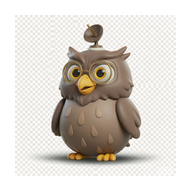
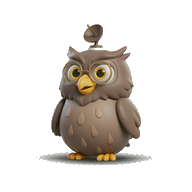
v1.25.5: 宠物彻底去抖——静止/工作态 animation:none(不再无限缩放/浮动,只在完成欢呼/出错偏头/眨眼/张望时短暂动)+清除教官/信使 front_idle 图片内嵌白色底卡(邻透明白色种子泛洪去白底,保留脚下软阴影),所有宠物透明底无白盒；SW缓存v43,指纹v73

Changed region(s): [[0.0625, 0.0625, 0.9375, 0.9375]]

diff --git a/index.html b/index.html
@@ -1,4 +1,4 @@
-<!DOCTYPE html><html lang="zh-CN"><head><meta charset="UTF-8"><meta name="viewport" content="width=device-width, initial-scale=1.0, viewport-fit=cover"><meta name="theme-color" content="#0b3a6e"><title>SENTRA · 述势 — 信息搜集与研判工作台</title><link rel="stylesheet" href="css/app.css?v=72"></head><body><svg xmlns="http://www.w3.org/2000/svg" style="display:none" aria-hidden="true"><defs><style>.pcac{fill:#8a2f1a}.pcdk{fill:#000;opacity:.16}.pcwh{fill:#fffdf7;opacity:.92}</style><symbol id="pc-overview" viewBox="0 0 64 64"><path d="M12 22 L52 22 L52 52 Q52 56 48 56 L16 56 Q12 56 12 52 Z" fill="currentColor"/><rect x="10" y="18" width="44" height="6" rx="2" fill="currentColor"/><rect x="10" y="18" width="44" height="6" rx="2" class="pcdk"/><rect x="16" y="8" width="18" height="12" rx="2" class="pcwh"/><rect x="34" y="12" width="14" height="8" rx="2" class="pcwh"/><rect x="16" y="8" width="8" height="5" rx="2" class="pcac"/><rect x="20" y="32" width="24" height="3.5" rx="1.75" class="pcwh" opacity=".65"/><rect x="20" y="40" width="18" height="3.5" rx="1.75" class="pcwh" opacity=".65"/><rect x="20" y="48" width="12" height="3.5" rx="1.75" class="pcwh" opacity=".65"/></symbol><symbol id="pc-library" viewBox="0 0 64 64"><path d="M18 16 Q18 10 24 10 L40 10 Q46 10 46 16 L47 48 Q47 55 40 55 L24 55 Q17 55 17 48 Z" fill="currentColor"/><path d="M20 12 Q30 8 44 12 L43 26 Q32 22 21 26 Z" class="pcdk"/><rect x="27" y="30" width="10" height="7" rx="2" class="pcac"/><rect x="27" y="33.5" width="10" height="2" fill="#fffdf7" opacity=".8"/><rect x="22" y="42" width="20" height="3" rx="1.5" class="pcwh" opacity=".55"/><path d="M32 10 L32 55" stroke="#000" stroke-opacity=".12" stroke-width="2"/></symbol><symbol id="pc-favorites" viewBox="0 0 64 64"><path d="M14 40 Q10 30 18 26 Q26 22 32 28 Q38 22 46 26 Q54 30 50 40 Q46 48 32 56 Q18 48 14 40 Z" fill="currentColor"/><path d="M20 34 Q24 28 30 32" stroke="#fffdf7" stroke-opacity=".7" stroke-width="3" stroke-linecap="round" fill="none"/><circle cx="46" cy="14" r="8" class="pcac"/><path d="M46 10.5 L47 13 L49.5 14 L47 15 L46 17.5 L45 15 L42.5 14 L45 13 Z" class="pcwh"/></symbol><symbol id="pc-ranking" viewBox="0 0 64 64"><path d="M22 6 L42 6 L37 22 L27 22 Z" class="pcac"/><path d="M24 8 L28 8 L26 22 Z" class="pcwh" opacity=".35"/><circle cx="32" cy="38" r="16" fill="currentColor"/><circle cx="32" cy="38" r="11" fill="none" stroke="#fffdf7" stroke-opacity=".5" stroke-width="2.5"/><path d="M32 30 L34.5 35 L40 36 L36 40 L37 45 L32 42.5 L27 45 L28 40 L24 36 L29.5 35 Z" class="pcwh"/></symbol><symbol id="pc-journal" viewBox="0 0 64 64"><path d="M8 14 Q16 10 24 14 L24 52 Q16 48 8 52 Z" fill="currentColor"/><path d="M56 14 Q48 10 40 14 L40 52 Q48 48 56 52 Z" fill="currentColor"/><rect x="24" y="12" width="16" height="42" class="pcwh"/><rect x="24" y="12" width="16" height="42" class="pcdk"/><rect x="27" y="20" width="10" height="3" rx="1.5" fill="#5a442a" opacity=".55"/><rect x="27" y="27" width="10" height="2.5" rx="1.25" fill="#5a442a" opacity=".4"/><rect x="27" y="33" width="10" height="2.5" rx="1.25" fill="#5a442a" opacity=".4"/><circle cx="32" cy="49" r="2.5" class="pcac"/></symbol><symbol id="pc-sources" viewBox="0 0 64 64"><path d="M18 52 Q20 30 34 16 Q42 8 52 8 Q52 20 44 30 Q34 42 24 46 Z" fill="currentColor"/><path d="M24 42 L40 20" stroke="#fffdf7" stroke-opacity=".55" stroke-width="2.5" stroke-linecap="round"/><path d="M12 56 Q22 50 30 52" stroke="currentColor" stroke-width="4" stroke-linecap="round" fill="none"/><circle cx="53" cy="9" r="4.5" class="pcac"/><rect x="14" y="50" width="12" height="5" rx="2.5" fill="currentColor"/></symbol><symbol id="pc-terms" viewBox="0 0 64 64"><path d="M16 12 Q16 9 19 9 L45 9 Q48 9 48 12 L48 52 Q48 55 45 55 L19 55 Q16 55 16 52 Z" fill="currentColor"/><rect x="16" y="9" width="8" height="46" rx="3" class="pcdk"/><rect x="14" y="24" width="36" height="7" rx="2" class="pcac"/><rect x="14" y="24" width="36" height="7" rx="2" fill="none" stroke="#fffdf7" stroke-opacity=".35" stroke-width="1.5"/><rect x="28" y="14" width="14" height="3" rx="1.5" class="pcwh" opacity=".6"/><rect x="28" y="38" width="14" height="3" rx="1.5" class="pcwh" opacity=".6"/><rect x="28" y="45" width="10" height="3" rx="1.5" class="pcwh" opacity=".45"/></symbol><symbol id="pc-interests" viewBox="0 0 64 64"><path d="M14 12 L50 12 L50 52 L32 42 L14 52 Z" fill="currentColor"/><g fill="#fffdf7" stroke="#fffdf7"><circle cx="20" cy="17" r="1.6" stroke="none"/><circle cx="26" cy="17" r="1.6" stroke="none"/><circle cx="32" cy="17" r="1.6" stroke="none"/><circle cx="38" cy="17" r="1.6" stroke="none"/><circle cx="44" cy="17" r="1.6" stroke="none"/><circle cx="20" cy="47" r="1.6" stroke="none"/><circle cx="26" cy="49" r="1.6" stroke="none"/><circle cx="38" cy="49" r="1.6" stroke="none"/><circle cx="44" cy="47" r="1.6" stroke="none"/></g><path d="M32 24 L34.5 30 L41 31 L36 35.5 L37.5 42 L32 38.5 L26.5 42 L28 35.5 L23 31 L29.5 30 Z" class="pcwh"/><circle cx="50" cy="10" r="4" class="pcac"/></symbol><symbol id="pc-settings" viewBox="0 0 64 64"><g fill="currentColor"><rect x="29" y="10" width="6" height="9" rx="2.5"/><rect x="29" y="10" width="6" height="9" rx="2.5" transform="rotate(45 32 32)"/><rect x="29" y="10" width="6" height="9" rx="2.5" transform="rotate(90 32 32)"/><rect x="29" y="10" width="6" height="9" rx="2.5" transform="rotate(135 32 32)"/><rect x="29" y="10" width="6" height="9" rx="2.5" transform="rotate(180 32 32)"/><rect x="29" y="10" width="6" height="9" rx="2.5" transform="rotate(225 32 32)"/><rect x="29" y="10" width="6" height="9" rx="2.5" transform="rotate(270 32 32)"/><rect x="29" y="10" width="6" height="9" rx="2.5" transform="rotate(315 32 32)"/><circle cx="32" cy="32" r="14"/></g><circle cx="32" cy="32" r="6" class="pcac"/><circle cx="32" cy="32" r="2.2" class="pcwh"/></symbol></defs></svg><svg xmlns="http://www.w3.org/2000/svg" style="display:none" aria-hidden="true"><defs><style>.icac{fill:#33e0e0}.icdk{fill:#000;opacity:.18}.icwh{fill:#fff;opacity:.9}</style><symbol id="ic-overview" viewBox="0 0 64 64"><circle cx="32" cy="34" r="23" fill="currentColor"/><circle cx="32" cy="34" r="14" class="icdk"/><rect x="30" y="14" width="4" height="10" rx="2" class="icwh"/><rect x="30" y="44" width="4" height="10" rx="2" class="icwh"/><rect x="12" y="32" width="10" height="4" rx="2" class="icwh"/><rect x="42" y="32" width="10" height="4" rx="2" class="icwh"/><circle cx="32" cy="34" r="4" class="icwh"/><path d="M52 4 L54.2 8.8 L59 11 L54.2 13.2 L52 18 L49.8 13.2 L45 11 L49.8 8.8 Z" class="icac"/></symbol><symbol id="ic-library" viewBox="0 0 64 64"><circle cx="29" cy="34" r="15" fill="currentColor"/><circle cx="23" cy="30" r="3.5" class="icdk"/><circle cx="35" cy="28" r="2.5" class="icdk"/><circle cx="32" cy="40" r="3" class="icdk"/><ellipse cx="31" cy="38" rx="27" ry="8.5" fill="none" stroke="#33e0e0" stroke-width="4" transform="rotate(-16 31 38)"/><path d="M10 10 L12.2 14.8 L17 17 L12.2 19.2 L10 24 L7.8 19.2 L3 17 L7.8 14.8 Z" class="icwh" opacity=".7"/><path d="M54 50 L55.8 53.8 L59.6 55.6 L55.8 57.4 L54 61.2 L52.2 57.4 L48.4 55.6 L52.2 53.8 Z" class="icac"/></symbol><symbol id="ic-favorites" viewBox="0 0 64 64"><path d="M20 14 L44 14 L40 26 L24 26 Z" class="icac"/><rect x="16" y="24" width="32" height="30" rx="9" fill="currentColor"/><rect x="14" y="20" width="36" height="8" rx="4" fill="currentColor"/><rect x="14" y="20" width="36" height="8" rx="4" class="icdk"/><path d="M32 32 L34.2 36.8 L39 39 L34.2 41.2 L32 46 L29.8 41.2 L25 39 L29.8 36.8 Z" class="icwh"/><path d="M47 8 L48.8 11.8 L52.6 13.6 L48.8 15.4 L47 19.2 L45.2 15.4 L41.4 13.6 L45.2 11.8 Z" class="icac"/></symbol><symbol id="ic-ranking" viewBox="0 0 64 64"><path d="M22 6 L42 6 L37 24 L27 24 Z" class="icac"/><circle cx="32" cy="38" r="16" fill="currentColor"/><circle cx="32" cy="38" r="16" fill="none" stroke="#000" stroke-opacity=".15" stroke-width="3"/><path d="M32 29 L34.5 34 L40 35 L36 39 L37 44.5 L32 42 L27 44.5 L28 39 L24 35 L29.5 34 Z" class="icwh"/></symbol><symbol id="ic-journal" viewBox="0 0 64 64"><path d="M32 5 C41 13 45 24 45 35 L45 46 L19 46 L19 35 C19 24 23 13 32 5 Z" fill="currentColor"/><circle cx="32" cy="25" r="6.5" class="icdk"/><circle cx="32" cy="25" r="3.5" class="icwh"/><path d="M19 34 L8 47 L19 45 Z" class="icac"/><path d="M45 34 L56 47 L45 45 Z" class="icac"/><rect x="19" y="44" width="26" height="4" class="icdk"/><path d="M26 50 L38 50 L32 60 Z" class="icac"/></symbol><symbol id="ic-sources" viewBox="0 0 64 64"><circle cx="32" cy="35" r="17" fill="currentColor"/><circle cx="32" cy="35" r="11" class="icdk"/><path d="M32 35 L32 19 A16 16 0 0 1 45 26 Z" class="icwh" opacity=".4"/><rect x="31" y="18" width="2" height="34" class="icwh" opacity=".8"/><rect x="15" y="34" width="34" height="2" class="icwh" opacity=".8"/><circle cx="42" cy="28" r="3" class="icac"/><rect x="27" y="52" width="10" height="5" rx="2.5" fill="currentColor"/></symbol><symbol id="ic-terms" viewBox="0 0 64 64"><rect x="15" y="11" width="34" height="43" rx="6" fill="currentColor"/><rect x="15" y="11" width="9" height="43" rx="4" class="icdk"/><path d="M37 11 L46 11 L46 25 L41.5 20.5 L37 25 Z" class="icac"/><g class="icwh" opacity=".92"><rect x="27.5" y="24" width="3" height="13" rx="1.5"/><rect x="27.5" y="24" width="3" height="13" rx="1.5" transform="rotate(60 29 30.5)"/><rect x="27.5" y="24" width="3" height="13" rx="1.5" transform="rotate(120 29 30.5)"/></g><rect x="22" y="44" width="20" height="3.5" rx="1.75" class="icwh" opacity=".55"/></symbol><symbol id="ic-interests" viewBox="0 0 64 64"><circle cx="32" cy="33" r="21" fill="none" stroke="currentColor" stroke-width="3" stroke-dasharray="6 6" opacity=".55"/><circle cx="32" cy="33" r="12.5" fill="currentColor"/><circle cx="27.5" cy="30" r="3" class="icdk"/><circle cx="36" cy="37" r="2.2" class="icdk"/><circle cx="32" cy="33" r="3.5" class="icac"/><path d="M52 8 L54.2 12.8 L59 15 L54.2 17.2 L52 22 L49.8 17.2 L45 15 L49.8 12.8 Z" class="icac"/><path d="M11 46 L12.8 49.8 L16.6 51.6 L12.8 53.4 L11 57.2 L9.2 53.4 L5.4 51.6 L9.2 49.8 Z" class="icwh" opacity=".7"/></symbol><symbol id="ic-settings" viewBox="0 0 64 64"><g fill="currentColor"><rect x="29" y="12" width="6" height="9" rx="2.5"/><rect x="29" y="12" width="6" height="9" rx="2.5" transform="rotate(45 32 33)"/><rect x="29" y="12" width="6" height="9" rx="2.5" transform="rotate(90 32 33)"/><rect x="29" y="12" width="6" height="9" rx="2.5" transform="rotate(135 32 33)"/><rect x="29" y="12" width="6" height="9" rx="2.5" transform="rotate(180 32 33)"/><rect x="29" y="12" width="6" height="9" rx="2.5" transform="rotate(225 32 33)"/><rect x="29" y="12" width="6" height="9" rx="2.5" transform="rotate(270 32 33)"/><rect x="29" y="12" width="6" height="9" rx="2.5" transform="rotate(315 32 33)"/><circle cx="32" cy="33" r="14"/></g><circle cx="32" cy="33" r="5.5" class="icdk"/><circle cx="47" cy="16" r="5" class="icac"/><ellipse cx="47" cy="16" rx="9" ry="2.6" fill="none" stroke="#33e0e0" stroke-width="2" transform="rotate(-18 47 16)"/></symbol></defs><svg xmlns="http://www.w3.org/2000/svg" style="display:none" aria-hidden="true"><defs>
+<!DOCTYPE html><html lang="zh-CN"><head><meta charset="UTF-8"><meta name="viewport" content="width=device-width, initial-scale=1.0, viewport-fit=cover"><meta name="theme-color" content="#0b3a6e"><title>SENTRA · 述势 — 信息搜集与研判工作台</title><link rel="stylesheet" href="css/app.css?v=73"></head><body><svg xmlns="http://www.w3.org/2000/svg" style="display:none" aria-hidden="true"><defs><style>.pcac{fill:#8a2f1a}.pcdk{fill:#000;opacity:.16}.pcwh{fill:#fffdf7;opacity:.92}</style><symbol id="pc-overview" viewBox="0 0 64 64"><path d="M12 22 L52 22 L52 52 Q52 56 48 56 L16 56 Q12 56 12 52 Z" fill="currentColor"/><rect x="10" y="18" width="44" height="6" rx="2" fill="currentColor"/><rect x="10" y="18" width="44" height="6" rx="2" class="pcdk"/><rect x="16" y="8" width="18" height="12" rx="2" class="pcwh"/><rect x="34" y="12" width="14" height="8" rx="2" class="pcwh"/><rect x="16" y="8" width="8" height="5" rx="2" class="pcac"/><rect x="20" y="32" width="24" height="3.5" rx="1.75" class="pcwh" opacity=".65"/><rect x="20" y="40" width="18" height="3.5" rx="1.75" class="pcwh" opacity=".65"/><rect x="20" y="48" width="12" height="3.5" rx="1.75" class="pcwh" opacity=".65"/></symbol><symbol id="pc-library" viewBox="0 0 64 64"><path d="M18 16 Q18 10 24 10 L40 10 Q46 10 46 16 L47 48 Q47 55 40 55 L24 55 Q17 55 17 48 Z" fill="currentColor"/><path d="M20 12 Q30 8 44 12 L43 26 Q32 22 21 26 Z" class="pcdk"/><rect x="27" y="30" width="10" height="7" rx="2" class="pcac"/><rect x="27" y="33.5" width="10" height="2" fill="#fffdf7" opacity=".8"/><rect x="22" y="42" width="20" height="3" rx="1.5" class="pcwh" opacity=".55"/><path d="M32 10 L32 55" stroke="#000" stroke-opacity=".12" stroke-width="2"/></symbol><symbol id="pc-favorites" viewBox="0 0 64 64"><path d="M14 40 Q10 30 18 26 Q26 22 32 28 Q38 22 46 26 Q54 30 50 40 Q46 48 32 56 Q18 48 14 40 Z" fill="currentColor"/><path d="M20 34 Q24 28 30 32" stroke="#fffdf7" stroke-opacity=".7" stroke-width="3" stroke-linecap="round" fill="none"/><circle cx="46" cy="14" r="8" class="pcac"/><path d="M46 10.5 L47 13 L49.5 14 L47 15 L46 17.5 L45 15 L42.5 14 L45 13 Z" class="pcwh"/></symbol><symbol id="pc-ranking" viewBox="0 0 64 64"><path d="M22 6 L42 6 L37 22 L27 22 Z" class="pcac"/><path d="M24 8 L28 8 L26 22 Z" class="pcwh" opacity=".35"/><circle cx="32" cy="38" r="16" fill="currentColor"/><circle cx="32" cy="38" r="11" fill="none" stroke="#fffdf7" stroke-opacity=".5" stroke-width="2.5"/><path d="M32 30 L34.5 35 L40 36 L36 40 L37 45 L32 42.5 L27 45 L28 40 L24 36 L29.5 35 Z" class="pcwh"/></symbol><symbol id="pc-journal" viewBox="0 0 64 64"><path d="M8 14 Q16 10 24 14 L24 52 Q16 48 8 52 Z" fill="currentColor"/><path d="M56 14 Q48 10 40 14 L40 52 Q48 48 56 52 Z" fill="currentColor"/><rect x="24" y="12" width="16" height="42" class="pcwh"/><rect x="24" y="12" width="16" height="42" class="pcdk"/><rect x="27" y="20" width="10" height="3" rx="1.5" fill="#5a442a" opacity=".55"/><rect x="27" y="27" width="10" height="2.5" rx="1.25" fill="#5a442a" opacity=".4"/><rect x="27" y="33" width="10" height="2.5" rx="1.25" fill="#5a442a" opacity=".4"/><circle cx="32" cy="49" r="2.5" class="pcac"/></symbol><symbol id="pc-sources" viewBox="0 0 64 64"><path d="M18 52 Q20 30 34 16 Q42 8 52 8 Q52 20 44 30 Q34 42 24 46 Z" fill="currentColor"/><path d="M24 42 L40 20" stroke="#fffdf7" stroke-opacity=".55" stroke-width="2.5" stroke-linecap="round"/><path d="M12 56 Q22 50 30 52" stroke="currentColor" stroke-width="4" stroke-linecap="round" fill="none"/><circle cx="53" cy="9" r="4.5" class="pcac"/><rect x="14" y="50" width="12" height="5" rx="2.5" fill="currentColor"/></symbol><symbol id="pc-terms" viewBox="0 0 64 64"><path d="M16 12 Q16 9 19 9 L45 9 Q48 9 48 12 L48 52 Q48 55 45 55 L19 55 Q16 55 16 52 Z" fill="currentColor"/><rect x="16" y="9" width="8" height="46" rx="3" class="pcdk"/><rect x="14" y="24" width="36" height="7" rx="2" class="pcac"/><rect x="14" y="24" width="36" height="7" rx="2" fill="none" stroke="#fffdf7" stroke-opacity=".35" stroke-width="1.5"/><rect x="28" y="14" width="14" height="3" rx="1.5" class="pcwh" opacity=".6"/><rect x="28" y="38" width="14" height="3" rx="1.5" class="pcwh" opacity=".6"/><rect x="28" y="45" width="10" height="3" rx="1.5" class="pcwh" opacity=".45"/></symbol><symbol id="pc-interests" viewBox="0 0 64 64"><path d="M14 12 L50 12 L50 52 L32 42 L14 52 Z" fill="currentColor"/><g fill="#fffdf7" stroke="#fffdf7"><circle cx="20" cy="17" r="1.6" stroke="none"/><circle cx="26" cy="17" r="1.6" stroke="none"/><circle cx="32" cy="17" r="1.6" stroke="none"/><circle cx="38" cy="17" r="1.6" stroke="none"/><circle cx="44" cy="17" r="1.6" stroke="none"/><circle cx="20" cy="47" r="1.6" stroke="none"/><circle cx="26" cy="49" r="1.6" stroke="none"/><circle cx="38" cy="49" r="1.6" stroke="none"/><circle cx="44" cy="47" r="1.6" stroke="none"/></g><path d="M32 24 L34.5 30 L41 31 L36 35.5 L37.5 42 L32 38.5 L26.5 42 L28 35.5 L23 31 L29.5 30 Z" class="pcwh"/><circle cx="50" cy="10" r="4" class="pcac"/></symbol><symbol id="pc-settings" viewBox="0 0 64 64"><g fill="currentColor"><rect x="29" y="10" width="6" height="9" rx="2.5"/><rect x="29" y="10" width="6" height="9" rx="2.5" transform="rotate(45 32 32)"/><rect x="29" y="10" width="6" height="9" rx="2.5" transform="rotate(90 32 32)"/><rect x="29" y="10" width="6" height="9" rx="2.5" transform="rotate(135 32 32)"/><rect x="29" y="10" width="6" height="9" rx="2.5" transform="rotate(180 32 32)"/><rect x="29" y="10" width="6" height="9" rx="2.5" transform="rotate(225 32 32)"/><rect x="29" y="10" width="6" height="9" rx="2.5" transform="rotate(270 32 32)"/><rect x="29" y="10" width="6" height="9" rx="2.5" transform="rotate(315 32 32)"/><circle cx="32" cy="32" r="14"/></g><circle cx="32" cy="32" r="6" class="pcac"/><circle cx="32" cy="32" r="2.2" class="pcwh"/></symbol></defs></svg><svg xmlns="http://www.w3.org/2000/svg" style="display:none" aria-hidden="true"><defs><style>.icac{fill:#33e0e0}.icdk{fill:#000;opacity:.18}.icwh{fill:#fff;opacity:.9}</style><symbol id="ic-overview" viewBox="0 0 64 64"><circle cx="32" cy="34" r="23" fill="currentColor"/><circle cx="32" cy="34" r="14" class="icdk"/><rect x="30" y="14" width="4" height="10" rx="2" class="icwh"/><rect x="30" y="44" width="4" height="10" rx="2" class="icwh"/><rect x="12" y="32" width="10" height="4" rx="2" class="icwh"/><rect x="42" y="32" width="10" height="4" rx="2" class="icwh"/><circle cx="32" cy="34" r="4" class="icwh"/><path d="M52 4 L54.2 8.8 L59 11 L54.2 13.2 L52 18 L49.8 13.2 L45 11 L49.8 8.8 Z" class="icac"/></symbol><symbol id="ic-library" viewBox="0 0 64 64"><circle cx="29" cy="34" r="15" fill="currentColor"/><circle cx="23" cy="30" r="3.5" class="icdk"/><circle cx="35" cy="28" r="2.5" class="icdk"/><circle cx="32" cy="40" r="3" class="icdk"/><ellipse cx="31" cy="38" rx="27" ry="8.5" fill="none" stroke="#33e0e0" stroke-width="4" transform="rotate(-16 31 38)"/><path d="M10 10 L12.2 14.8 L17 17 L12.2 19.2 L10 24 L7.8 19.2 L3 17 L7.8 14.8 Z" class="icwh" opacity=".7"/><path d="M54 50 L55.8 53.8 L59.6 55.6 L55.8 57.4 L54 61.2 L52.2 57.4 L48.4 55.6 L52.2 53.8 Z" class="icac"/></symbol><symbol id="ic-favorites" viewBox="0 0 64 64"><path d="M20 14 L44 14 L40 26 L24 26 Z" class="icac"/><rect x="16" y="24" width="32" height="30" rx="9" fill="currentColor"/><rect x="14" y="20" width="36" height="8" rx="4" fill="currentColor"/><rect x="14" y="20" width="36" height="8" rx="4" class="icdk"/><path d="M32 32 L34.2 36.8 L39 39 L34.2 41.2 L32 46 L29.8 41.2 L25 39 L29.8 36.8 Z" class="icwh"/><path d="M47 8 L48.8 11.8 L52.6 13.6 L48.8 15.4 L47 19.2 L45.2 15.4 L41.4 13.6 L45.2 11.8 Z" class="icac"/></symbol><symbol id="ic-ranking" viewBox="0 0 64 64"><path d="M22 6 L42 6 L37 24 L27 24 Z" class="icac"/><circle cx="32" cy="38" r="16" fill="currentColor"/><circle cx="32" cy="38" r="16" fill="none" stroke="#000" stroke-opacity=".15" stroke-width="3"/><path d="M32 29 L34.5 34 L40 35 L36 39 L37 44.5 L32 42 L27 44.5 L28 39 L24 35 L29.5 34 Z" class="icwh"/></symbol><symbol id="ic-journal" viewBox="0 0 64 64"><path d="M32 5 C41 13 45 24 45 35 L45 46 L19 46 L19 35 C19 24 23 13 32 5 Z" fill="currentColor"/><circle cx="32" cy="25" r="6.5" class="icdk"/><circle cx="32" cy="25" r="3.5" class="icwh"/><path d="M19 34 L8 47 L19 45 Z" class="icac"/><path d="M45 34 L56 47 L45 45 Z" class="icac"/><rect x="19" y="44" width="26" height="4" class="icdk"/><path d="M26 50 L38 50 L32 60 Z" class="icac"/></symbol><symbol id="ic-sources" viewBox="0 0 64 64"><circle cx="32" cy="35" r="17" fill="currentColor"/><circle cx="32" cy="35" r="11" class="icdk"/><path d="M32 35 L32 19 A16 16 0 0 1 45 26 Z" class="icwh" opacity=".4"/><rect x="31" y="18" width="2" height="34" class="icwh" opacity=".8"/><rect x="15" y="34" width="34" height="2" class="icwh" opacity=".8"/><circle cx="42" cy="28" r="3" class="icac"/><rect x="27" y="52" width="10" height="5" rx="2.5" fill="currentColor"/></symbol><symbol id="ic-terms" viewBox="0 0 64 64"><rect x="15" y="11" width="34" height="43" rx="6" fill="currentColor"/><rect x="15" y="11" width="9" height="43" rx="4" class="icdk"/><path d="M37 11 L46 11 L46 25 L41.5 20.5 L37 25 Z" class="icac"/><g class="icwh" opacity=".92"><rect x="27.5" y="24" width="3" height="13" rx="1.5"/><rect x="27.5" y="24" width="3" height="13" rx="1.5" transform="rotate(60 29 30.5)"/><rect x="27.5" y="24" width="3" height="13" rx="1.5" transform="rotate(120 29 30.5)"/></g><rect x="22" y="44" width="20" height="3.5" rx="1.75" class="icwh" opacity=".55"/></symbol><symbol id="ic-interests" viewBox="0 0 64 64"><circle cx="32" cy="33" r="21" fill="none" stroke="currentColor" stroke-width="3" stroke-dasharray="6 6" opacity=".55"/><circle cx="32" cy="33" r="12.5" fill="currentColor"/><circle cx="27.5" cy="30" r="3" class="icdk"/><circle cx="36" cy="37" r="2.2" class="icdk"/><circle cx="32" cy="33" r="3.5" class="icac"/><path d="M52 8 L54.2 12.8 L59 15 L54.2 17.2 L52 22 L49.8 17.2 L45 15 L49.8 12.8 Z" class="icac"/><path d="M11 46 L12.8 49.8 L16.6 51.6 L12.8 53.4 L11 57.2 L9.2 53.4 L5.4 51.6 L9.2 49.8 Z" class="icwh" opacity=".7"/></symbol><symbol id="ic-settings" viewBox="0 0 64 64"><g fill="currentColor"><rect x="29" y="12" width="6" height="9" rx="2.5"/><rect x="29" y="12" width="6" height="9" rx="2.5" transform="rotate(45 32 33)"/><rect x="29" y="12" width="6" height="9" rx="2.5" transform="rotate(90 32 33)"/><rect x="29" y="12" width="6" height="9" rx="2.5" transform="rotate(135 32 33)"/><rect x="29" y="12" width="6" height="9" rx="2.5" transform="rotate(180 32 33)"/><rect x="29" y="12" width="6" height="9" rx="2.5" transform="rotate(225 32 33)"/><rect x="29" y="12" width="6" height="9" rx="2.5" transform="rotate(270 32 33)"/><rect x="29" y="12" width="6" height="9" rx="2.5" transform="rotate(315 32 33)"/><circle cx="32" cy="33" r="14"/></g><circle cx="32" cy="33" r="5.5" class="icdk"/><circle cx="47" cy="16" r="5" class="icac"/><ellipse cx="47" cy="16" rx="9" ry="2.6" fill="none" stroke="#33e0e0" stroke-width="2" transform="rotate(-18 47 16)"/></symbol></defs><svg xmlns="http://www.w3.org/2000/svg" style="display:none" aria-hidden="true"><defs>
     <style>
       .adac { fill: #c9a227; }
       .addk { fill: #000; opacity: .15; }
@@ -1006,5 +1006,5 @@
       <div class="brand-text"><b>SENTRA 述势</b></div>
     </div>    <nav class="nav" id="nav"></nav>    <button class="mail-entry" id="mailEntry" title="收件箱">✉ 收件箱</button>    <div class="pet-nest" id="petNest" hidden></div>    <div class="side-foot" id="sideFoot"></div>  </aside>  <main class="content" id="content"></main>
   <nav class="bottom-nav" id="bottomNav"></nav>
-</div><div class="modal-mask" id="modalMask" hidden>  <div class="modal" id="modalBox" role="dialog"></div></div><div class="toast-wrap" id="toastWrap"></div><script src="js/util.js?v=72"></script><script src="js/store.js?v=72"></script><script src="js/llm.js?v=72"></script><script src="js/docx.js?v=72"></script><script src="js/modules/mirror.js?v=72"></script><script src="js/modules/reader.js?v=72"></script><script src="js/modules/dashboard.js?v=72"></script><script src="js/modules/library.js?v=72"></script><script src="js/modules/favorites.js?v=72"></script><script src="js/modules/rankings.js?v=72"></script><script src="js/modules/inbox.js?v=72"></script><script src="js/modules/journal.js?v=72"></script><script src="js/modules/terms.js?v=72"></script><script src="js/modules/prefs.js?v=72"></script><script src="js/modules/settings.js?v=72"></script><script src="js/modules/brief.js?v=72"></script><script src="js/modules/me.js?v=72"></script><script src="js/app.js?v=72"></script></body></html>
+</div><div class="modal-mask" id="modalMask" hidden>  <div class="modal" id="modalBox" role="dialog"></div></div><div class="toast-wrap" id="toastWrap"></div><script src="js/util.js?v=73"></script><script src="js/store.js?v=73"></script><script src="js/llm.js?v=73"></script><script src="js/docx.js?v=73"></script><script src="js/modules/mirror.js?v=73"></script><script src="js/modules/reader.js?v=73"></script><script src="js/modules/dashboard.js?v=73"></script><script src="js/modules/library.js?v=73"></script><script src="js/modules/favorites.js?v=73"></script><script src="js/modules/rankings.js?v=73"></script><script src="js/modules/inbox.js?v=73"></script><script src="js/modules/journal.js?v=73"></script><script src="js/modules/terms.js?v=73"></script><script src="js/modules/prefs.js?v=73"></script><script src="js/modules/settings.js?v=73"></script><script src="js/modules/brief.js?v=73"></script><script src="js/modules/me.js?v=73"></script><script src="js/app.js?v=73"></script></body></html>
 

diff --git a/sw.js b/sw.js
@@ -1,11 +1,11 @@
-/* SENTRA 述势 · Service Worker v42 —— 导航与 update.json 均网络优先，避免更新公告被旧缓存延迟 */
+/* SENTRA 述势 · Service Worker v43 —— 导航与 update.json 均网络优先，避免更新公告被旧缓存延迟 */
 self.addEventListener("install", function () {
   self.skipWaiting();
 });
 self.addEventListener("activate", function (e) {
   e.waitUntil(Promise.all([
     self.clients.claim(),
-    caches.keys().then(function (ks) { return Promise.all(ks.filter(function (k) { return k.indexOf("xuebao-shell-v") === 0 && k !== "xuebao-shell-v42"; }).map(function (k) { return caches.delete(k); })); })
+    caches.keys().then(function (ks) { return Promise.all(ks.filter(function (k) { return k.indexOf("xuebao-shell-v") === 0 && k !== "xuebao-shell-v43"; }).map(function (k) { return caches.delete(k); })); })
   ]));
 });
 self.addEventListener("fetch", function (e) {
@@ -19,7 +19,7 @@ self.addEventListener("fetch", function (e) {
       fetch(req, { cache: "no-store" }).then(function (r) {
         if (r && r.ok) {
           var copy = r.clone();
-          caches.open("xuebao-shell-v42").then(function (c) { c.put(req, copy); });
+          caches.open("xuebao-shell-v43").then(function (c) { c.put(req, copy); });
         }
         return r;
       }).catch(function () {
@@ -34,7 +34,7 @@ self.addEventListener("fetch", function (e) {
       fetch(req).then(function (r) {
         if (r && r.ok) {
           var copy = r.clone();
-          caches.open("xuebao-shell-v42").then(function (c) { c.put(req, copy); });
+          caches.open("xuebao-shell-v43").then(function (c) { c.put(req, copy); });
         }
         return r;
       }).catch(function () {
@@ -49,7 +49,7 @@ self.addEventListener("fetch", function (e) {
       var net = fetch(req).then(function (r) {
         if (r && r.ok) {
           var copy = r.clone();
-          caches.open("xuebao-shell-v42").then(function (c) { c.put(req, copy); });
+          caches.open("xuebao-shell-v43").then(function (c) { c.put(req, copy); });
         }
         return r;
       }).catch(function () { return hit; });

diff --git a/css/app.css b/css/app.css
@@ -1039,15 +1039,16 @@ html[data-theme="gray"] .tf-bar{background:#dfe3e7}
 .pet-nest .pet-badge{position:absolute;top:7px;right:16px;min-width:18px;height:18px;border-radius:10px;background:#e23b3b;color:#fff;font-size:11px;font-weight:700;display:flex;align-items:center;justify-content:center;padding:0 4px;line-height:1;box-shadow:0 1px 3px rgba(0,0,0,.3)}
 .pet-nest .pet-badge.err{background:#e5484d}
 .pet-nest .pet-badge.ok{background:#0f766e}
-/* 状态动效：挂在舞台层，宠物与干活配件一起动（配件联动） */
-.pet-stage-wrap.breathe{animation:petBreathe 2.6s ease-in-out infinite}
-.pet-stage-wrap.working{animation:petWork 2.6s ease-in-out infinite}
+/* 状态动效：挂在舞台层，宠物与干活配件一起动（配件联动）
+   —— 静止/工作态一律不循环动（用户两度反馈"一直抖"：无休止的缩放/浮动会被当成抖动），只在语义事件里短暂动：
+   完成=欢呼3跳、出错=轻微偏头2次、闲置小动作=轻摆1次、眨眼=快速换帧。 */
+.pet-stage-wrap.breathe{animation:none}
+.pet-stage-wrap.working{animation:none}
 .pet-stage-wrap.cheer{animation:petCheer .5s ease-in-out 3}
 .pet-stage-wrap.error{animation:petErr .7s ease-in-out 2}
 .pet-stage-wrap.wobble{animation:petSway .9s ease-in-out 1}
 @keyframes petBreathe{0%,100%{transform:scale(1)}50%{transform:scale(1.045)}}
-/* 干活=专注的轻缓浮动：只做上下 2px 柔和浮动，去掉任何旋转/左右抖动。
-   早期/此前的 ±1°~±1.5° 旋转+位移会让用户觉得"一直在抖"（后台批量任务期间 working 态持续数分钟）。 */
+/* 干活=静止（专注），仅靠配件/角标提示；不再做任何位移/旋转/缩放（用户视其为"一直抖"）。 */
 @keyframes petWork{0%,100%{transform:translateY(0)}50%{transform:translateY(-2px)}}
 @keyframes petCheer{0%,100%{transform:translateY(0) scale(1)}50%{transform:translateY(-9px) scale(1.05)}}
 /* 出错=轻轻偏头示意（有限 2 次，不循环抖动）；持续错误由右上"!"角标与皱眉神态提示 */

diff --git a/js/store.js b/js/store.js
@@ -56,8 +56,8 @@
     // 状态
     lastPullAt: 0,
     lastMirrorUpdatedAt: null,
-    appVersion: "1.25.4",
-    versionCode: 72,
+    appVersion: "1.25.5",
+    versionCode: 73,
     libDualTitle: true,          // 资料库标题：中英双语展示；关=仅英文
     updateRepo: "ccxxxx-create/xuebao-web",   // 更新通知仓库：update.json（部署网址为 gh-pages 时本仓库 Pages）
     lastUpdateCheck: 0,
